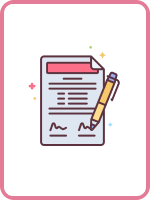
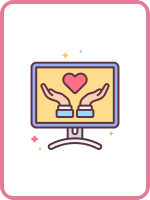
поменял карточку одну на ссылку с мультфильмом

Changed region(s): [[0.1867, 0.24, 0.8, 0.75], [0.5867, 0.21, 0.6133, 0.24]]

diff --git a/src/utilities/data.js b/src/utilities/data.js
@@ -43,9 +43,12 @@ const cardList = [
     },
     {
         name: "card_06",
-        title: "493 777 (!) человек",
-        descr: ["Дети-сироты и дети, оставшиеся без попечения родителей.", "*по данным на 2021 год"],
-        links: [["Cсылка на источник", "https://tochno.st/problems/orphanhood"]],
+        title: "Посмотреть",
+        subTitle: ["«Жизнь Кабачка»", "— трогательный мультфильм о жизни в сиротском приюте."],
+        descr: [
+            "Необычные куклы, душераздирающая история про мальчика, который попадает в приют, рассказ о дружбе и взаимной поддержке одиноких и брошенных детей — все это уже снискало фильму множество поклонников по всему миру, престижные фестивальные призы и похвальные отзывы критиков.",
+        ],
+        links: [["Cсылка на мультфильм", "https://tochno.st/problems/orphanhood"]],
     },
     {
         name: "card_07",

diff --git a/src/widgets/GameBoard/components/MatchedСardModal/MatchedСardModal.jsx b/src/widgets/GameBoard/components/MatchedСardModal/MatchedСardModal.jsx
@@ -13,6 +13,11 @@ const MatchedСardModal = (props) => {
             <h3 className="matched-card-modal__title">{cardDescr.title}</h3>
             <div className="matched-card-modal__body">
                 <div className="matched-card-modal__descr">
+                    {cardDescr && cardDescr.subTitle.length === 2 && (
+                        <p className="matched-card-modal__text">
+                            <span className="matched-card-modal__text-span">{cardDescr.subTitle[0]}</span> {cardDescr.subTitle[1]}
+                        </p>
+                    )}
                     {cardDescr &&
                         cardDescr.descr.length > 0 &&
                         cardDescr.descr.map((text) => {

diff --git a/src/widgets/GameBoard/components/MatchedСardModal/MatchedСardModal.scss b/src/widgets/GameBoard/components/MatchedСardModal/MatchedСardModal.scss
@@ -35,6 +35,16 @@
     margin-bottom: 10px;
 }
 
+.matched-card-modal__text-span {
+    color: #e47c98;
+    font-family: IBM Plex Sans;
+    font-size: 26px;
+    font-style: normal;
+    font-weight: 400;
+    line-height: normal;
+    margin-bottom: 10px;
+}
+
 .matched-card-modal__list-item {
     color: #000;
     font-family: IBM Plex Sans;

diff --git a/src/widgets/GameWin/hooks/useWinFetch.js b/src/widgets/GameWin/hooks/useWinFetch.js
@@ -9,7 +9,7 @@ const useWinFetch = (player, elapsedTimer, movesCount) => {
         moves_taken: movesCount,
     };
 
-    postFetch("games/9/end_game/", body);
+    postFetch("games/9/end_game/", body); // тут вмето 9 должен быть айдишник с игрой, не успели сделать
 };
 
 export { useWinFetch };
